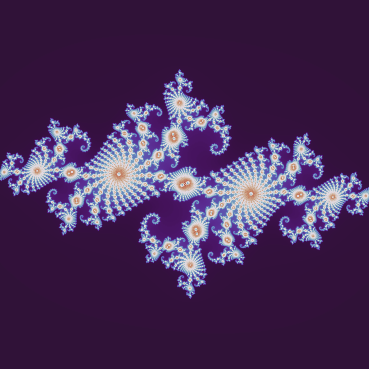
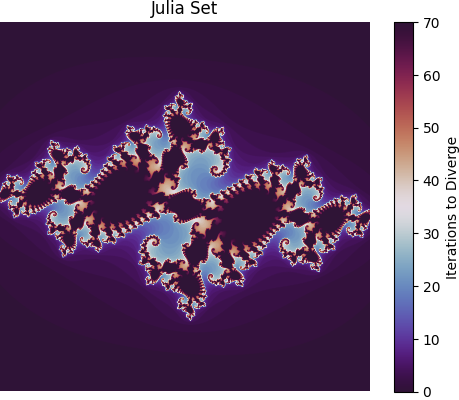
modified code to make it runnable on g5k

diff --git a/generate_julia_ray.py b/generate_julia_ray.py
@@ -1,17 +1,17 @@
 import ray
 import numpy as np
 import matplotlib.pyplot as plt
-
+import time
 
 def initialize_ray():
-    ray.init()
+    ray.init(address='auto')
     resources = ray.cluster_resources()
     num_workers = resources.get("CPU")
     print(F"{num_workers} Ray workers")
     return num_workers
 
 
-@ray.remote
+@ray.remote(num_cpus=4)
 def julia_set(z, max_iterations, a):
     iterations_till_divergence = max_iterations + np.zeros(z.shape)
     for i in range(max_iterations):
@@ -35,24 +35,29 @@ def generate_julia(size ,max_iterations,a,z_array_np):
 
 
 if __name__=="__main__":
-    h_range, w_range, max_iterations = 500, 500, 70
+
+    workers = initialize_ray()
+    size,  max_iterations = 5000 , 70
     a = -0.744 + 0.148j
 
     # Create a grid using NumPy's ogrid
-    y, x = np.ogrid[1.4: -1.4: h_range*1j, -1.4: 1.4: w_range*1j]
+    y, x = np.ogrid[1.4: -1.4: size*1j, -1.4: 1.4: size*1j]
     z_array_np = x + y*1j
 
     # Convert the array and split the array into chunks
+    start = time.time()
 
     # Map the function to chunks of the new dask array
-    final_result = generate_julia(max_iterations,a,z_array_np)
+    final_result = generate_julia(size//workers , max_iterations,a,z_array_np)
 
     # Compute the result and visualize
     plt.imshow(final_result, cmap='twilight_shifted', extent=[-1.4, 1.4, -1.4, 1.4])
     plt.colorbar(label='Iterations to Diverge')
     plt.title('Julia Set')
     plt.axis('off')
-    plt.show()
+    plt.savefig('my_image_ray.png', bbox_inches='tight', pad_inches=0)
+
+    print(f"{time.time() - start} seconds")
 
     # Shutdown Ray
     ray.shutdown()

diff --git a/julia_g5k_dask.py b/julia_g5k_dask.py
@@ -56,7 +56,7 @@ if __name__=="__main__":
         memory_per_core_property_name='memcore',
         # walltime for each worker job
         walltime='1:0:0',
-        processes=workers,
+        processes=4,
     )
 
     cluster.scale(jobs=10)
@@ -72,7 +72,7 @@ if __name__=="__main__":
     z_array_np = x + y*1j
 
     
-    number_of_chunks = size//(workers*4)
+    number_of_chunks = size//(workers)
     print(f"spint chunks into {number_of_chunks} ")
     start = time.time()
     result = generate_julia(number_of_chunks, max_iterations , a , z_array_np)
